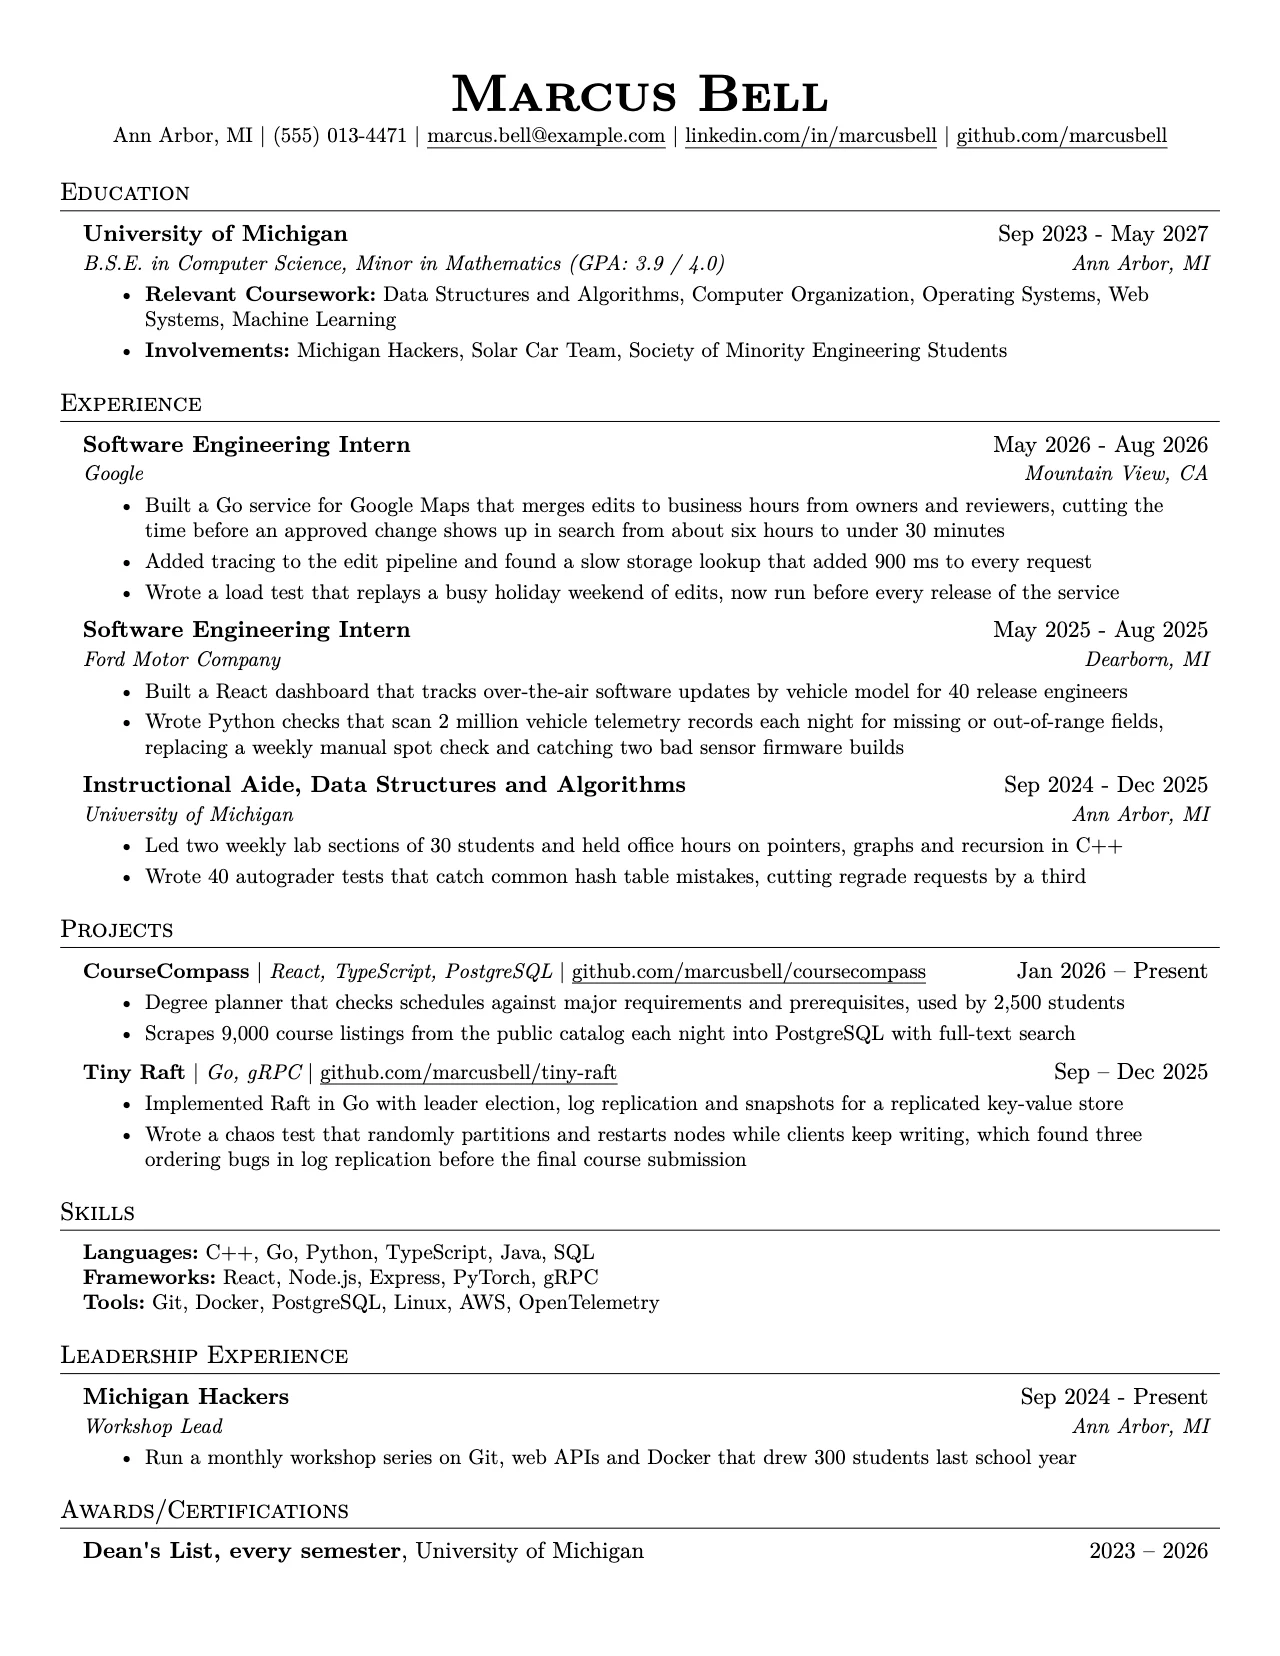
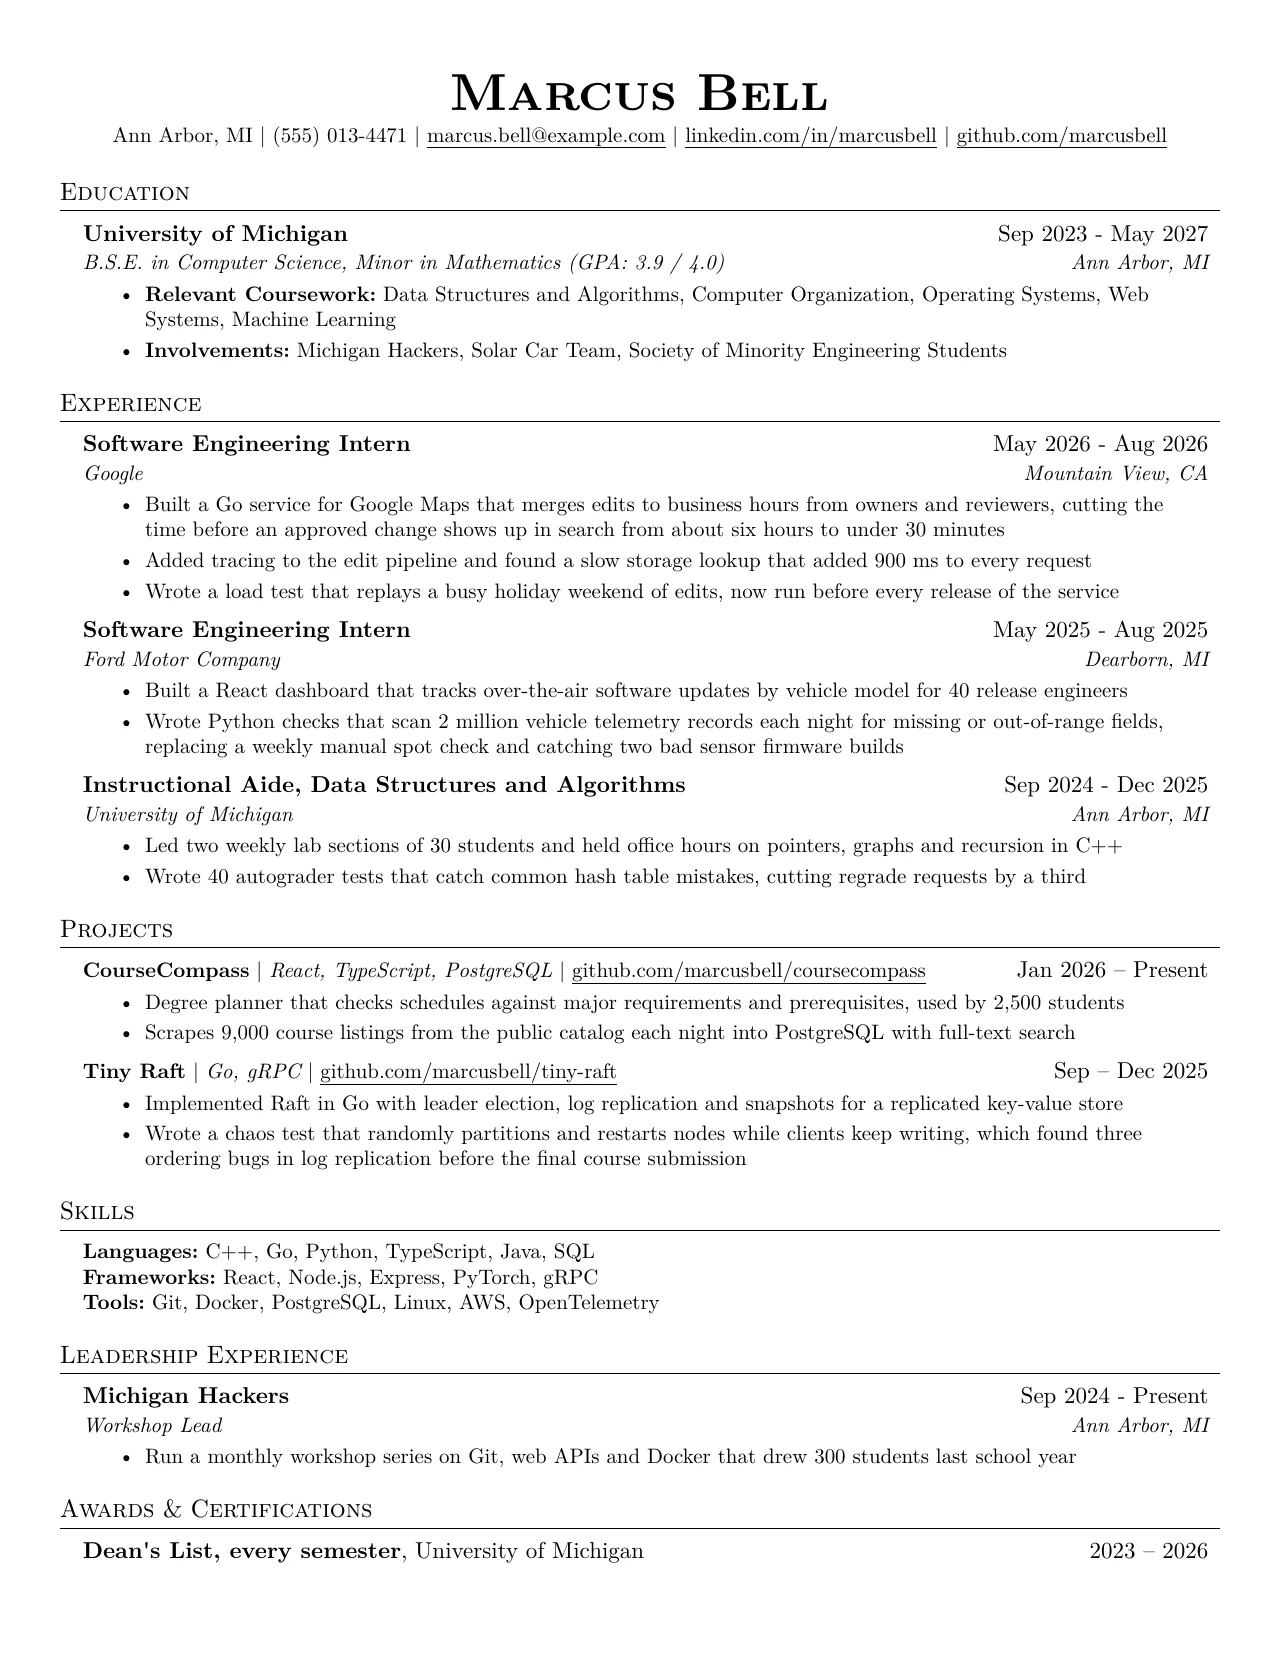
give each section one name, the same in the editor and on the PDF
The awards section was "Awards" in the editor but "Awards/Certifications",
"Awards & Certifications" or "Certifications & Awards" on the PDF,
depending on the template. Leadership and volunteering also printed
longer names than the editor showed. Now the editor shows what every
template prints: "Awards & Certifications", "Leadership Experience" and
"Volunteer Experience". A test keeps the templates' default headings and
the editor's names the same, and the previews of the three templates
whose heading changed are made again.

This also lets the checker match text it found under these headings to
its section, since it looks for the editor's name.

Claude-Session: https://claude.ai/code/session_013yx8H5G6n6pcwSLaJTk6x6

diff --git a/frontend/src/lib/typst/headings.test.ts b/frontend/src/lib/typst/headings.test.ts
@@ -1,0 +1,31 @@
+// A section has one name: the editor shows it, and every template prints it
+// as the section's heading unless the person writes their own.
+
+import { readdirSync, readFileSync } from "node:fs"
+import path from "node:path"
+import { expect, test } from "vitest"
+import { SECTIONS } from "@/components/editor/sections"
+import type { TemplateData } from "./resumeData"
+
+const TEMPLATES = path.resolve("src/lib/typst/templates")
+
+/** The editor's name for each heading the templates read. */
+const EDITOR_NAMES: Record<keyof TemplateData["headings"], string> = {
+  education: SECTIONS.Education.title,
+  work: SECTIONS.Work.title,
+  projects: SECTIONS.Projects.title,
+  publications: SECTIONS.Publications.title,
+  skills: SECTIONS.Skills.title,
+  leadership: SECTIONS.Leadership.title,
+  volunteer: SECTIONS.Volunteership.title,
+  awards: SECTIONS.Awards.title,
+}
+
+const templates = readdirSync(TEMPLATES).filter((file) => file !== "common.typ")
+
+test.each(templates)("%s prints each section's heading as the editor names it", (file) => {
+  const source = readFileSync(path.join(TEMPLATES, file), "utf8")
+  // heading-or(hd.awards, "Awards & Certifications"): the person's heading, or this.
+  const defaults = Object.fromEntries([...source.matchAll(/heading-or\(hd\.(\w+), "([^"]*)"\)/g)].map(([, key, text]) => [key, text]))
+  expect(defaults).toEqual(EDITOR_NAMES)
+})

diff --git a/frontend/src/components/editor/sections.ts b/frontend/src/components/editor/sections.ts
@@ -24,7 +24,11 @@ export interface ChoiceDef {
 
 export interface SectionDef {
   name: SectionName
-  /** Shown in the editor; the resume uses the user's heading or the template's default. */
+  /**
+   * Shown in the editor, and printed as the section's heading unless the user
+   * writes their own: every template's default heading is this one, so the
+   * editor and the PDF never disagree (typst/headings.test.ts checks).
+   */
   title: string
   dataKey: string
   headingKey: string
@@ -150,7 +154,7 @@ export const SECTIONS: Record<SectionName, SectionDef> = {
   },
   Volunteership: {
     name: "Volunteership",
-    title: "Volunteering",
+    title: "Volunteer Experience",
     dataKey: "volunteerExperienceSection",
     headingKey: "volunteer",
     addLabel: "Add volunteering",
@@ -165,7 +169,7 @@ export const SECTIONS: Record<SectionName, SectionDef> = {
   },
   Leadership: {
     name: "Leadership",
-    title: "Leadership",
+    title: "Leadership Experience",
     dataKey: "leadershipExperienceSection",
     headingKey: "leadership",
     addLabel: "Add leadership",
@@ -180,7 +184,7 @@ export const SECTIONS: Record<SectionName, SectionDef> = {
   },
   Awards: {
     name: "Awards",
-    title: "Awards",
+    title: "Awards & Certifications",
     dataKey: "awardsSection",
     headingKey: "awards",
     addLabel: "Add award",
